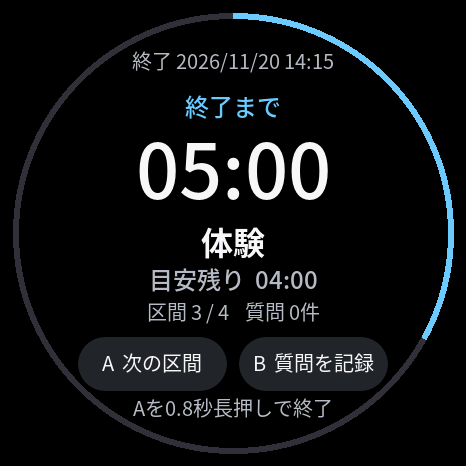
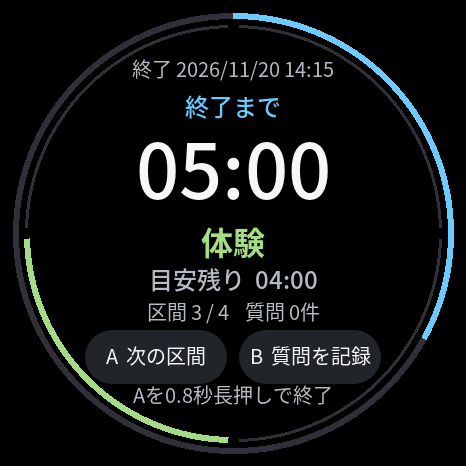
Show the active tour segment on the inner ring

diff --git a/StopWatchTourGuide/src/App.cpp b/StopWatchTourGuide/src/App.cpp
@@ -323,23 +323,26 @@ View App::view(Millis now) {
     const int64_t availableMs = (r.deadline - r.started) * 1000;
     v.remainingPercent = static_cast<int>(100 * std::max<int64_t>(0, left) / availableMs);
     v.ringInk = left <= int64_t(settings_.warnings.overall) * 1000 ? Ink::Warning : Ink::Accent;
-    row(v, "終了 " + dateText(r.deadline), 62, 20, Ink::Muted, 270);
+    v.segmentIndex = tour_.segment();
+    v.segmentCount = r.segments.size();
+    row(v, "終了 " + dateText(r.deadline), 70, 20, Ink::Muted, 270);
     row(v, now < deadlineBannerUntil_ && left > -1000 ? "終了時刻" : left < 0 ? "終了超過" : "終了まで",
         108, 24, v.ringInk);
     row(v, duration(left > 0 ? left + 999 : left), 172, 76,
-        v.ringInk == Ink::Warning ? Ink::Warning : Ink::Normal, 374);
-    row(v, r.course.segments[tour_.segment()].name, 244, 32);
+        v.ringInk == Ink::Warning ? Ink::Warning : Ink::Normal);
+    row(v, r.course.segments[v.segmentIndex].name, 244, 32,
+        v.segmentCount > 1 ? Ink::Segment : Ink::Normal);
     row(v, std::string(segmentLeft < 0 ? "目安超過  " : "目安残り  ") +
         duration(segmentLeft > 0 ? segmentLeft + 999 : segmentLeft), 281, 24, Ink::Muted);
     size_t count = 0;
-    for (const auto& q : r.questions) if (q.segment == tour_.segment()) ++count;
-    row(v, showMessage ? message_ : "区間 " + countText(tour_.segment()+1) + " / " + countText(r.segments.size()) +
+    for (const auto& q : r.questions) if (q.segment == v.segmentIndex) ++count;
+    row(v, showMessage ? message_ : "区間 " + countText(v.segmentIndex+1) + " / " + countText(v.segmentCount) +
         "    質問 " + countText(count) + "件", 313, 20, Ink::Muted);
-    if (tour_.segment() + 1 < r.segments.size()) {
-      button(v, "A  次の区間", Action::NextSegment, 78, 337, 149, 54, Ink::Surface, 20);
-      button(v, "B  質問を記録", Action::Question, 239, 337, 149, 54, Ink::Surface, 20);
-    } else button(v, "B  質問を記録", Action::Question, 109, 339, 248, 54);
-    row(v, "Aを0.8秒長押しで終了", 409, 20, Ink::Muted, 244);
+    if (v.segmentIndex + 1 < v.segmentCount) {
+      button(v, "A  次の区間", Action::NextSegment, 85, 330, 142, 54, Ink::Surface, 20);
+      button(v, "B  質問を記録", Action::Question, 239, 330, 142, 54, Ink::Surface, 20);
+    } else button(v, "B  質問を記録", Action::Question, 109, 330, 248, 54);
+    row(v, "Aを0.8秒長押しで終了", 396, 20, Ink::Muted, 244);
     return v;
   }
   if (!haveReview_) return v;

diff --git a/tests/test.cpp b/tests/test.cpp
@@ -622,8 +622,29 @@ void wifiEditedTour() {
 void snapshot(const std::string& name,const View& v) {
   std::ofstream out("build/"+name+".tsv");
   if (v.remainingPercent >= 0) out<<"ring\t"<<v.remainingPercent<<'\t'<<int(v.ringInk)<<'\n';
+  if (v.segmentCount) out<<"segments\t"<<v.segmentIndex<<'\t'<<v.segmentCount<<'\n';
   for (const auto& b:v.boxes) out<<"box\t"<<b.x<<'\t'<<b.y<<'\t'<<b.width<<'\t'<<b.height<<'\t'<<int(b.ink)<<'\t'<<b.radius<<'\n';
   for (const auto& r:v.rows) out<<"text\t"<<r.x<<'\t'<<r.y<<'\t'<<r.size<<'\t'<<r.width<<'\t'<<int(r.ink)<<'\t'<<int(r.background)<<'\t'<<r.text<<'\n';
+}
+void currentSegmentRing() {
+  for (const size_t count : {size_t{1}, kMaxSegments}) {
+    FakeBlobs blobs; RecordStore store(blobs); FakeClock rtc; FakeEditor editor;
+    Course course{"案内", std::vector<Segment>(count, {"展示", 1})};
+    App app(course, rtc, store, editor); app.begin();
+    CHECK(app.view(0).segmentCount == 0);
+    confirmDeadline(app);
+    tapAction(app, Action::Start, 0);
+    for (size_t i = 0; i < count; ++i) {
+      const auto view = app.view(i);
+      CHECK(view.segmentCount == count && view.segmentIndex == i);
+      if (i + 1 < count) tapAction(app, Action::NextSegment, i + 1);
+    }
+    app.update(901000, question);
+    app.update(901001, next);
+    CHECK(app.view(901001).segmentIndex == count - 1);
+    app.update(901002, finish);
+    CHECK(app.view(901002).segmentCount == 0);
+  }
 }
 void uiSnapshots() {
   FakeBlobs blobs; RecordStore store(blobs); FakeClock rtc;
@@ -667,7 +688,7 @@ int main() {
     {"画面上の操作と開始条件",touchControls},{"下段のタップ・スワイプ・描画更新",footerTaps},
     {"USB自動時刻設定",usbClockSync},{"Wi-Fi設定の上限と不正入力",wifiSettingsValidation},
     {"Wi-Fi設定から案内開始・再起動",wifiEditedTour},
-    {"画面プレビュー出力",uiSnapshots}
+    {"案内中の区間リング",currentSegmentRing},{"画面プレビュー出力",uiSnapshots}
   };
   size_t passed=0;
   for (const auto& t:tests) {

diff --git a/StopWatchTourGuide/src/WatchUi.cpp b/StopWatchTourGuide/src/WatchUi.cpp
@@ -21,12 +21,29 @@ uint32_t color(Ink ink) {
     case Ink::Normal: return 0xf5f5f7;
     case Ink::Muted: return 0xb7bbc3;
     case Ink::Accent: return 0x68caff;
+    case Ink::Segment: return 0xa6d980;
     case Ink::Warning: return 0xffb04e;
     case Ink::Surface: return 0x24262b;
     case Ink::Primary: return 0x77ceff;
     case Ink::OnPrimary: return 0x061923;
     case Ink::Track: return 0x303238;
     default: return 0;
+  }
+}
+
+void drawSegmentRing(lgfx::LGFXBase& canvas, size_t index, size_t count) {
+  if (count < 2) return;
+  constexpr int radius = 207;
+  const float step = 360.0f / count;
+  const float start = -90.0f + index * step;
+  canvas.fillArc(233, 233, radius+1, radius-1, 0, 360, color(Ink::Track));
+  canvas.fillArc(233, 233, radius+2, radius-3, start, start+step, color(Ink::Segment));
+  // Cut gaps in a single track so that a 32-stop course still needs only two arcs.
+  for (size_t i = 0; i < count; ++i) {
+    const float angle = i * step * (3.14159265f / 180.0f);
+    const int x = 233 + std::lround(radius * std::sin(angle));
+    const int y = 233 - std::lround(radius * std::cos(angle));
+    canvas.fillCircle(x, y, 5, color(Ink::Black));
   }
 }
 
@@ -82,6 +99,7 @@ void drawWatchView(lgfx::LGFXBase& canvas, const View& view) {
     if (view.remainingPercent > 0)
       canvas.fillArc(233, 233, radius, radius-5, -90,
                      -90 + view.remainingPercent * 3.6f, color(view.ringInk));
+    drawSegmentRing(canvas, view.segmentIndex, view.segmentCount);
   }
   for (const auto& box : view.boxes)
     canvas.fillSmoothRoundRect(box.x, box.y, box.width, box.height, box.radius, color(box.ink));

diff --git a/tests/render.cpp b/tests/render.cpp
@@ -57,6 +57,8 @@ View readView(const std::string& path) {
     } else if (kind == "ring") {
       fields >> view.remainingPercent >> ink;
       view.ringInk = static_cast<Ink>(ink);
+    } else if (kind == "segments") {
+      fields >> view.segmentIndex >> view.segmentCount;
     } else {
       TextRow row;
       int bg;
@@ -101,6 +103,18 @@ void checkLabels(lgfx::LGFX_Sprite& canvas, const View& view) {
   }
 }
 
+void checkRingClearance(lgfx::LGFX_Sprite& canvas, View rings) {
+  if (rings.segmentCount < 2) return;
+  const auto* pixels = static_cast<const uint16_t*>(canvas.getBuffer());
+  const std::vector<uint16_t> screen(pixels, pixels + canvas.width() * canvas.height());
+  rings.rows.clear();
+  rings.boxes.clear();
+  drawWatchView(canvas, rings);
+  for (size_t i = 0; i < screen.size(); ++i)
+    if (pixels[i] && pixels[i] != screen[i])
+      throw std::runtime_error("Running screen obscures a ring");
+}
+
 int main(int argc, char** argv) {
   checkTouchCoordinates();
   lgfx::LGFX_Sprite canvas;
@@ -117,5 +131,6 @@ int main(int argc, char** argv) {
     canvas.readRectRGB(0,0,466,466,rgb.data());
     image.write(reinterpret_cast<const char*>(rgb.data()), rgb.size());
     if (!image) return 1;
+    checkRingClearance(canvas, view);
   }
 }

diff --git a/StopWatchTourGuide/src/App.h b/StopWatchTourGuide/src/App.h
@@ -9,7 +9,7 @@ class Clock {
   virtual bool set(const DateTime&) = 0;
 };
 enum class Screen { Standby, Running, Review, EditDeadline, EditClock, CoursePlan, WifiEdit };
-enum class Ink { Normal, Muted, Accent, Warning, Surface, Primary, OnPrimary, Track, Black };
+enum class Ink { Normal, Muted, Accent, Warning, Surface, Primary, OnPrimary, Track, Black, Segment };
 enum class Action { None, Clock, Deadline, Start, Course, Records, Back, Save, Retry,
                     PreviousValue, NextValue, Year, Month, Day, Hour, Minute,
                     NextSegment, Question, NextPage, WifiEdit };
@@ -25,6 +25,8 @@ struct View {
   std::vector<Box> boxes;
   int remainingPercent = -1;
   Ink ringInk = Ink::Accent;
+  size_t segmentIndex = 0;
+  size_t segmentCount = 0;
 };
 // Coordinates are for the StopWatch's 466 x 466 round panel.
 class App {

diff --git a/docs/usage.md b/docs/usage.md
@@ -15,6 +15,8 @@
 
 翌日に終わる案内では、終了時刻を設定するときに日付も変更します。終了日時を確定すると、画面の「案内を開始」のほか、Aの0.8秒長押しでも始められます。
 
+案内中は、外側のリングが終了までの残り時間を示します。内側のリングは区間数で等分され、12時の位置から時計回りに区間が並びます。現在の区間は太い黄緑の弧で示し、「次の区間」に進むと弧も一つ先に移ります。区間が一つのコースでは内側のリングを省きます。
+
 30秒操作しないと画面が暗くなります。計時と振動は続き、最初のタップやボタン操作もそのまま受け付けます。
 
 質問は案内1回につき1,024件まで記録できます。それを超えて記録しようとすると画面に通知が出ます。計時と案内の終了操作は続けられます。

diff --git a/README.md b/README.md
@@ -2,7 +2,7 @@
 
 施設案内の区切りと終了時刻を振動で知らせる、M5Stack StopWatch（C152）用のタイマーです。案内は本体だけで進められます。全体の終了時刻は固定し、各区間の時間はその区間に入ったときから計ります。
 
-![案内中の画面。中央に終了までの残り時間、その下に区間名と区間の残り時間が表示される](docs/running.png)
+![案内中の画面。外周の青いリングは終了まで残り5分、内側の黄緑の弧は4区間のうち3番目の「体験」を示す](docs/running.png)
 
 初めて使う方は、[StopWatchへの書き込み手順](docs/setup.md)をご覧ください。
 
